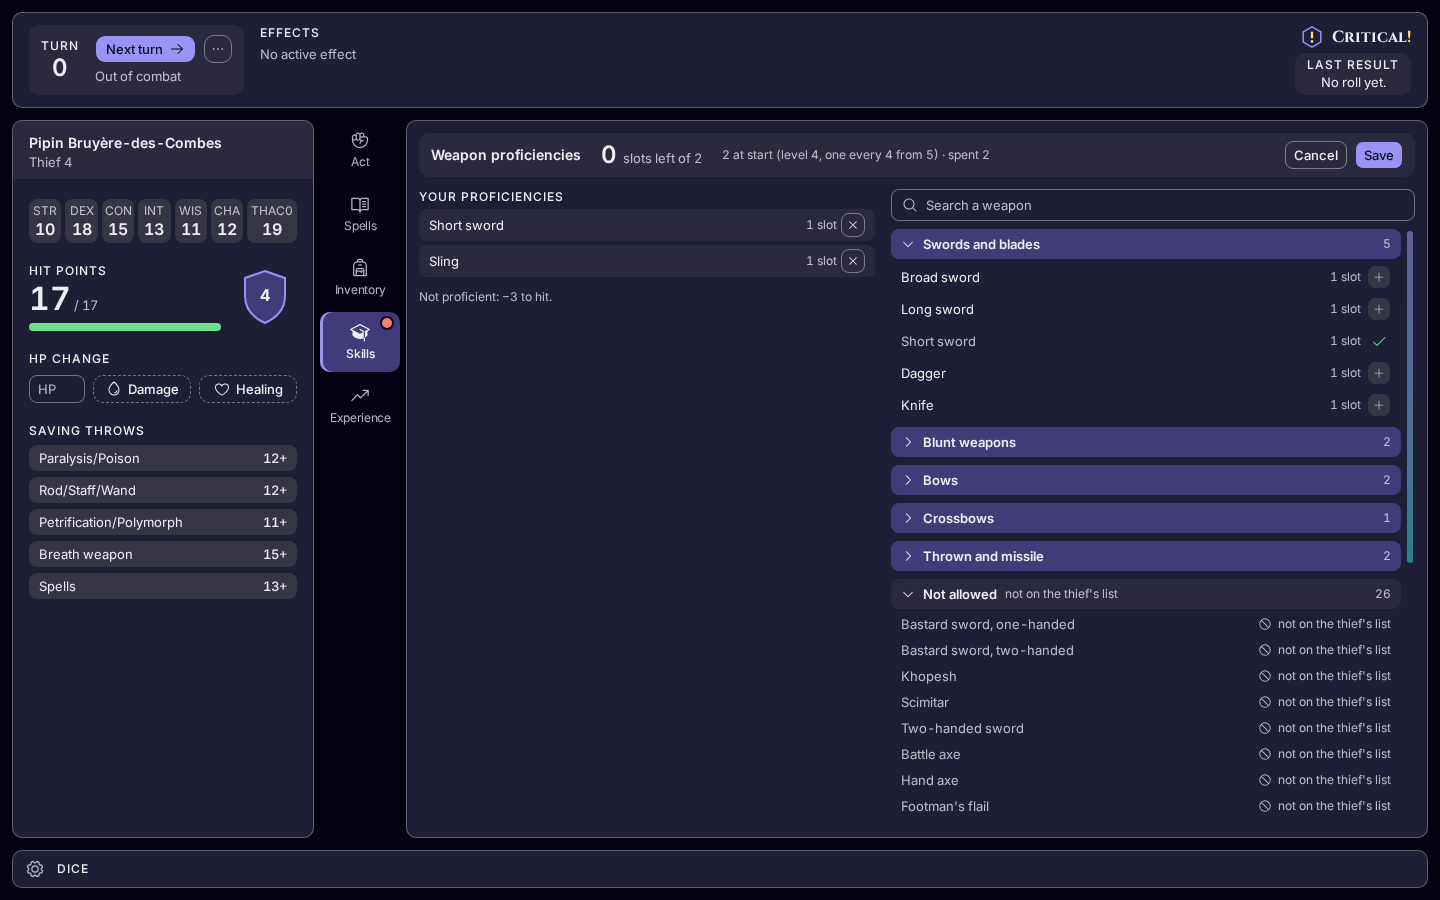
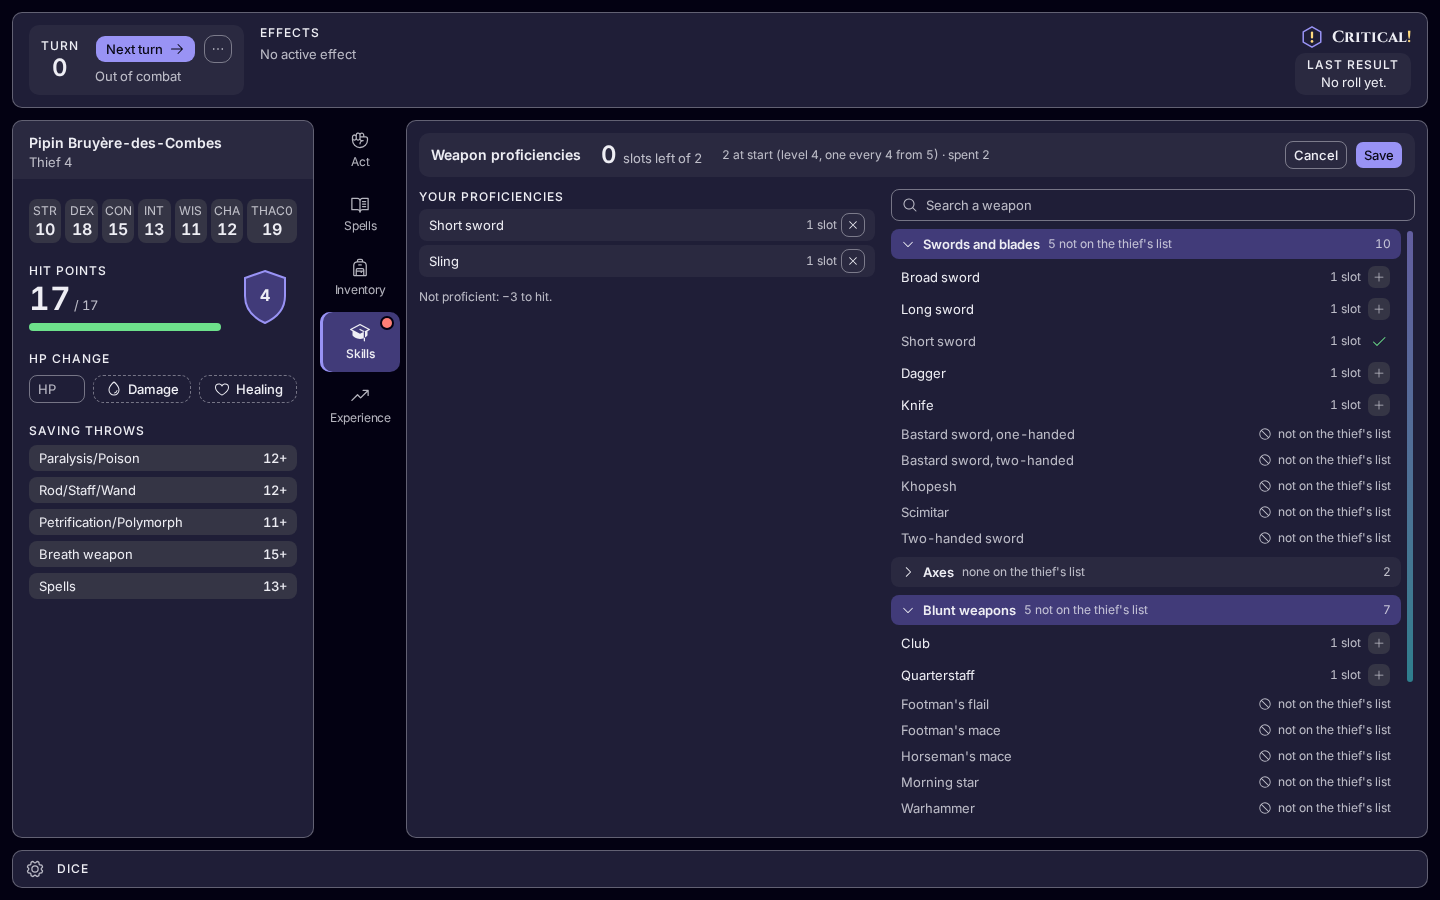
docs(design): Skills round 2, forbidden weapons greyed inside their family with the reason

Changed region(s): [[0.5938, 0.4667, 1.0, 0.9022], [0.75, 0.2489, 0.8125, 0.28]]

diff --git a/docs/design/skills/shots/gallery.html b/docs/design/skills/shots/gallery.html
@@ -26,18 +26,18 @@ nav{position:sticky;top:0;background:var(--bg);padding:8px 0;font-size:13px}nav 
 <h1>Skills design round (CRI-407)</h1>
 <p class="small">Today's app, for comparison: <a href="../baseline/skills--fr.png">skills</a> · <a href="../baseline/skills-full--fr.png">skills-full</a> · <a href="../baseline/act-skills--fr.png">act-skills</a></p><nav><a href="#a-overview-bard">a-overview-bard</a> <a href="#a-overview-thief">a-overview-thief</a> <a href="#a-overview-fighter">a-overview-fighter</a> <a href="#a-overview-multi">a-overview-multi</a> <a href="#a-edit-proficiencies-bard">a-edit-proficiencies-bard</a> <a href="#a-edit-weapons-thief">a-edit-weapons-thief</a> <a href="#a-edit-weapons-fighter">a-edit-weapons-fighter</a> <a href="#points-slider-bard">points-slider-bard</a></nav>
 <section id="a-overview-bard"><h2><a href="#a-overview-bard">a-overview-bard</a> — 1 · Barde : tout se lit d'un coup d'œil ; Modifier bordé de rouge là où il reste à dépenser</h2>
-<p class="small"><a href="a-overview-bard--en-1440x900.png?v=mwka8mp1">en 1440x900</a> · <a href="a-overview-bard--fr-1920x1080.png?v=mwka8mp1">fr 1920x1080</a> · <a href="a-overview-bard--en-1920x1080.png?v=mwka8mp1">en 1920x1080</a></p><a href="a-overview-bard--fr-1440x900.png?v=mwka8mp1"><img src="a-overview-bard--fr-1440x900.png?v=mwka8mp1" alt="a-overview-bard" loading="lazy"></a></section>
+<p class="small"><a href="a-overview-bard--en-1440x900.png?v=mwkamp85">en 1440x900</a> · <a href="a-overview-bard--fr-1920x1080.png?v=mwkamp85">fr 1920x1080</a> · <a href="a-overview-bard--en-1920x1080.png?v=mwkamp85">en 1920x1080</a></p><a href="a-overview-bard--fr-1440x900.png?v=mwkamp85"><img src="a-overview-bard--fr-1440x900.png?v=mwkamp85" alt="a-overview-bard" loading="lazy"></a></section>
 <section id="a-overview-thief"><h2><a href="#a-overview-thief">a-overview-thief</a> — 1 · Voleur : compétences, maîtrises d'armes, talents de voleur avec leur plafond par talent</h2>
-<p class="small"><a href="a-overview-thief--en-1440x900.png?v=mwka8mp1">en 1440x900</a> · <a href="a-overview-thief--fr-1920x1080.png?v=mwka8mp1">fr 1920x1080</a> · <a href="a-overview-thief--en-1920x1080.png?v=mwka8mp1">en 1920x1080</a></p><a href="a-overview-thief--fr-1440x900.png?v=mwka8mp1"><img src="a-overview-thief--fr-1440x900.png?v=mwka8mp1" alt="a-overview-thief" loading="lazy"></a></section>
+<p class="small"><a href="a-overview-thief--en-1440x900.png?v=mwkamp85">en 1440x900</a> · <a href="a-overview-thief--fr-1920x1080.png?v=mwkamp85">fr 1920x1080</a> · <a href="a-overview-thief--en-1920x1080.png?v=mwkamp85">en 1920x1080</a></p><a href="a-overview-thief--fr-1440x900.png?v=mwkamp85"><img src="a-overview-thief--fr-1440x900.png?v=mwkamp85" alt="a-overview-thief" loading="lazy"></a></section>
 <section id="a-overview-fighter"><h2><a href="#a-overview-fighter">a-overview-fighter</a> — 1 · Guerrière : pas de talents ; tout est dépensé, aucun bouton rouge</h2>
-<p class="small"><a href="a-overview-fighter--en-1440x900.png?v=mwka8mp1">en 1440x900</a> · <a href="a-overview-fighter--fr-1920x1080.png?v=mwka8mp1">fr 1920x1080</a> · <a href="a-overview-fighter--en-1920x1080.png?v=mwka8mp1">en 1920x1080</a></p><a href="a-overview-fighter--fr-1440x900.png?v=mwka8mp1"><img src="a-overview-fighter--fr-1440x900.png?v=mwka8mp1" alt="a-overview-fighter" loading="lazy"></a></section>
+<p class="small"><a href="a-overview-fighter--en-1440x900.png?v=mwkamp85">en 1440x900</a> · <a href="a-overview-fighter--fr-1920x1080.png?v=mwkamp85">fr 1920x1080</a> · <a href="a-overview-fighter--en-1920x1080.png?v=mwkamp85">en 1920x1080</a></p><a href="a-overview-fighter--fr-1440x900.png?v=mwkamp85"><img src="a-overview-fighter--fr-1440x900.png?v=mwkamp85" alt="a-overview-fighter" loading="lazy"></a></section>
 <section id="a-overview-multi"><h2><a href="#a-overview-multi">a-overview-multi</a> — 8 · Multi-classé guerrier/voleur : les budgets disent de quelle classe vient chaque part</h2>
-<p class="small"><a href="a-overview-multi--en-1440x900.png?v=mwka8mp1">en 1440x900</a> · <a href="a-overview-multi--fr-1920x1080.png?v=mwka8mp1">fr 1920x1080</a> · <a href="a-overview-multi--en-1920x1080.png?v=mwka8mp1">en 1920x1080</a></p><a href="a-overview-multi--fr-1440x900.png?v=mwka8mp1"><img src="a-overview-multi--fr-1440x900.png?v=mwka8mp1" alt="a-overview-multi" loading="lazy"></a></section>
+<p class="small"><a href="a-overview-multi--en-1440x900.png?v=mwkamp85">en 1440x900</a> · <a href="a-overview-multi--fr-1920x1080.png?v=mwkamp85">fr 1920x1080</a> · <a href="a-overview-multi--en-1920x1080.png?v=mwkamp85">en 1920x1080</a></p><a href="a-overview-multi--fr-1440x900.png?v=mwkamp85"><img src="a-overview-multi--fr-1440x900.png?v=mwkamp85" alt="a-overview-multi" loading="lazy"></a></section>
 <section id="a-edit-proficiencies-bard"><h2><a href="#a-edit-proficiencies-bard">a-edit-proficiencies-bard</a> — 1 · A, après Modifier : l'éditeur des compétences prend la scène</h2>
-<p class="small"><a href="a-edit-proficiencies-bard--en-1440x900.png?v=mwka8mp1">en 1440x900</a> · <a href="a-edit-proficiencies-bard--fr-1920x1080.png?v=mwka8mp1">fr 1920x1080</a> · <a href="a-edit-proficiencies-bard--en-1920x1080.png?v=mwka8mp1">en 1920x1080</a></p><a href="a-edit-proficiencies-bard--fr-1440x900.png?v=mwka8mp1"><img src="a-edit-proficiencies-bard--fr-1440x900.png?v=mwka8mp1" alt="a-edit-proficiencies-bard" loading="lazy"></a></section>
-<section id="a-edit-weapons-thief"><h2><a href="#a-edit-weapons-thief">a-edit-weapons-thief</a> — 5 · Armes du voleur : recherche, familles, celles de la classe d'abord, les autres non autorisées avec la raison</h2>
-<p class="small"><a href="a-edit-weapons-thief--en-1440x900.png?v=mwka8mp1">en 1440x900</a> · <a href="a-edit-weapons-thief--fr-1920x1080.png?v=mwka8mp1">fr 1920x1080</a> · <a href="a-edit-weapons-thief--en-1920x1080.png?v=mwka8mp1">en 1920x1080</a></p><a href="a-edit-weapons-thief--fr-1440x900.png?v=mwka8mp1"><img src="a-edit-weapons-thief--fr-1440x900.png?v=mwka8mp1" alt="a-edit-weapons-thief" loading="lazy"></a></section>
+<p class="small"><a href="a-edit-proficiencies-bard--en-1440x900.png?v=mwkamp85">en 1440x900</a> · <a href="a-edit-proficiencies-bard--fr-1920x1080.png?v=mwkamp85">fr 1920x1080</a> · <a href="a-edit-proficiencies-bard--en-1920x1080.png?v=mwkamp85">en 1920x1080</a></p><a href="a-edit-proficiencies-bard--fr-1440x900.png?v=mwkamp85"><img src="a-edit-proficiencies-bard--fr-1440x900.png?v=mwkamp85" alt="a-edit-proficiencies-bard" loading="lazy"></a></section>
+<section id="a-edit-weapons-thief"><h2><a href="#a-edit-weapons-thief">a-edit-weapons-thief</a> — 5 · Armes du voleur : recherche, familles ; dans chaque famille celles du voleur d'abord, puis les autres grisées avec la raison</h2>
+<p class="small"><a href="a-edit-weapons-thief--en-1440x900.png?v=mwkamp85">en 1440x900</a> · <a href="a-edit-weapons-thief--fr-1920x1080.png?v=mwkamp85">fr 1920x1080</a> · <a href="a-edit-weapons-thief--en-1920x1080.png?v=mwkamp85">en 1920x1080</a></p><a href="a-edit-weapons-thief--fr-1440x900.png?v=mwkamp85"><img src="a-edit-weapons-thief--fr-1440x900.png?v=mwkamp85" alt="a-edit-weapons-thief" loading="lazy"></a></section>
 <section id="a-edit-weapons-fighter"><h2><a href="#a-edit-weapons-fighter">a-edit-weapons-fighter</a> — 5 · Armes de la guerrière : toutes permises ; la spécialisation se règle sur la ligne</h2>
-<p class="small"><a href="a-edit-weapons-fighter--en-1440x900.png?v=mwka8mp1">en 1440x900</a> · <a href="a-edit-weapons-fighter--fr-1920x1080.png?v=mwka8mp1">fr 1920x1080</a> · <a href="a-edit-weapons-fighter--en-1920x1080.png?v=mwka8mp1">en 1920x1080</a></p><a href="a-edit-weapons-fighter--fr-1440x900.png?v=mwka8mp1"><img src="a-edit-weapons-fighter--fr-1440x900.png?v=mwka8mp1" alt="a-edit-weapons-fighter" loading="lazy"></a></section>
+<p class="small"><a href="a-edit-weapons-fighter--en-1440x900.png?v=mwkamp85">en 1440x900</a> · <a href="a-edit-weapons-fighter--fr-1920x1080.png?v=mwkamp85">fr 1920x1080</a> · <a href="a-edit-weapons-fighter--en-1920x1080.png?v=mwkamp85">en 1920x1080</a></p><a href="a-edit-weapons-fighter--fr-1440x900.png?v=mwkamp85"><img src="a-edit-weapons-fighter--fr-1440x900.png?v=mwkamp85" alt="a-edit-weapons-fighter" loading="lazy"></a></section>
 <section id="points-slider-bard"><h2><a href="#points-slider-bard">points-slider-bard</a> — 2 · Curseur (choisi) : points de talent avec un curseur, sa limite et ce que les points restants permettent</h2>
-<p class="small"><a href="points-slider-bard--en-1440x900.png?v=mwka8mp1">en 1440x900</a> · <a href="points-slider-bard--fr-1920x1080.png?v=mwka8mp1">fr 1920x1080</a> · <a href="points-slider-bard--en-1920x1080.png?v=mwka8mp1">en 1920x1080</a></p><a href="points-slider-bard--fr-1440x900.png?v=mwka8mp1"><img src="points-slider-bard--fr-1440x900.png?v=mwka8mp1" alt="points-slider-bard" loading="lazy"></a></section>
+<p class="small"><a href="points-slider-bard--en-1440x900.png?v=mwkamp85">en 1440x900</a> · <a href="points-slider-bard--fr-1920x1080.png?v=mwkamp85">fr 1920x1080</a> · <a href="points-slider-bard--en-1920x1080.png?v=mwkamp85">en 1920x1080</a></p><a href="points-slider-bard--fr-1440x900.png?v=mwkamp85"><img src="points-slider-bard--fr-1440x900.png?v=mwkamp85" alt="points-slider-bard" loading="lazy"></a></section>

diff --git a/web/design/skills/screens.tsx b/web/design/skills/screens.tsx
@@ -545,13 +545,14 @@ const mayUse = (who: Fixture) => (w: Weapon) =>
 const canSpecialize = (who: Fixture) => who.classIds.length === 1 && who.classIds[0] === "fighter";
 
 /** The weapons editor (decision 5): held weapons on the left; on the right a search and the weapons
- * by family, the class's first, then the ones the class may not take, with the reason. */
-function WeaponEditor({ who, open }: { who: Fixture; open: (Weapon["family"] | "forbidden")[] }) {
+ * by family. Within a family the class's weapons come first, then the ones it may not take, greyed
+ * with the reason (the user's choice, round 2, over one "not allowed" group at the end). A family
+ * with none of the class's weapons is a quiet band. */
+function WeaponEditor({ who, open }: { who: Fixture; open: Weapon["family"][] }) {
   const left = who.weaponSlots.available - spentWeapon(who);
   const ok = mayUse(who);
   const held = new Set(who.weaponPicks.map((p) => p.code));
   const families = Object.keys(FAMILY) as Weapon["family"][];
-  const forbidden = WEAPONS.filter((w) => !ok(w));
   const cls = l2(who.classes[0].name).toLowerCase();
   const row = (w: Weapon, allowed: boolean) => (
     <div
@@ -666,29 +667,21 @@ function WeaponEditor({ who, open }: { who: Fixture; open: (Weapon["family"] | "
           </div>
           <div className="flex min-h-0 flex-col gap-2 overflow-y-auto pr-1">
             {families.map((f) => {
-              const rows = WEAPONS.filter((w) => w.family === f && ok(w));
-              if (!rows.length) return null;
+              const mine = WEAPONS.filter((w) => w.family === f && ok(w));
+              const not = WEAPONS.filter((w) => w.family === f && !ok(w));
               const isOpen = open.includes(f);
+              const note = !not.length
+                ? ""
+                : !mine.length
+                  ? tr(`aucune sur la liste du ${cls}`, `none on the ${cls}'s list`)
+                  : tr(`${not.length} hors de la liste du ${cls}`, `${not.length} not on the ${cls}'s list`);
               return (
                 <section key={f} className="flex flex-col gap-1">
-                  {band(f, l2(FAMILY[f]), "", rows.length, isOpen, true)}
-                  {isOpen && rows.map((w) => row(w, true))}
+                  {band(f, l2(FAMILY[f]), note, mine.length + not.length, isOpen, mine.length > 0)}
+                  {isOpen && [...mine.map((w) => row(w, true)), ...not.map((w) => row(w, false))]}
                 </section>
               );
             })}
-            {forbidden.length > 0 && (
-              <section className="flex flex-col gap-1">
-                {band(
-                  "forbidden",
-                  tr("Non autorisées", "Not allowed"),
-                  tr(`hors de la liste du ${cls}`, `not on the ${cls}'s list`),
-                  forbidden.length,
-                  open.includes("forbidden"),
-                  false,
-                )}
-                {open.includes("forbidden") && forbidden.map((w) => row(w, false))}
-              </section>
-            )}
           </div>
         </div>
       </div>
@@ -775,7 +768,7 @@ export const SCREENS: Record<string, () => ReactNode> = {
   ),
   "a-edit-weapons-thief": () => (
     <EditorScreen who={THIEF}>
-      <WeaponEditor who={THIEF} open={["sword", "forbidden"]} />
+      <WeaponEditor who={THIEF} open={["sword", "blunt"]} />
     </EditorScreen>
   ),
   "a-edit-weapons-fighter": () => (
